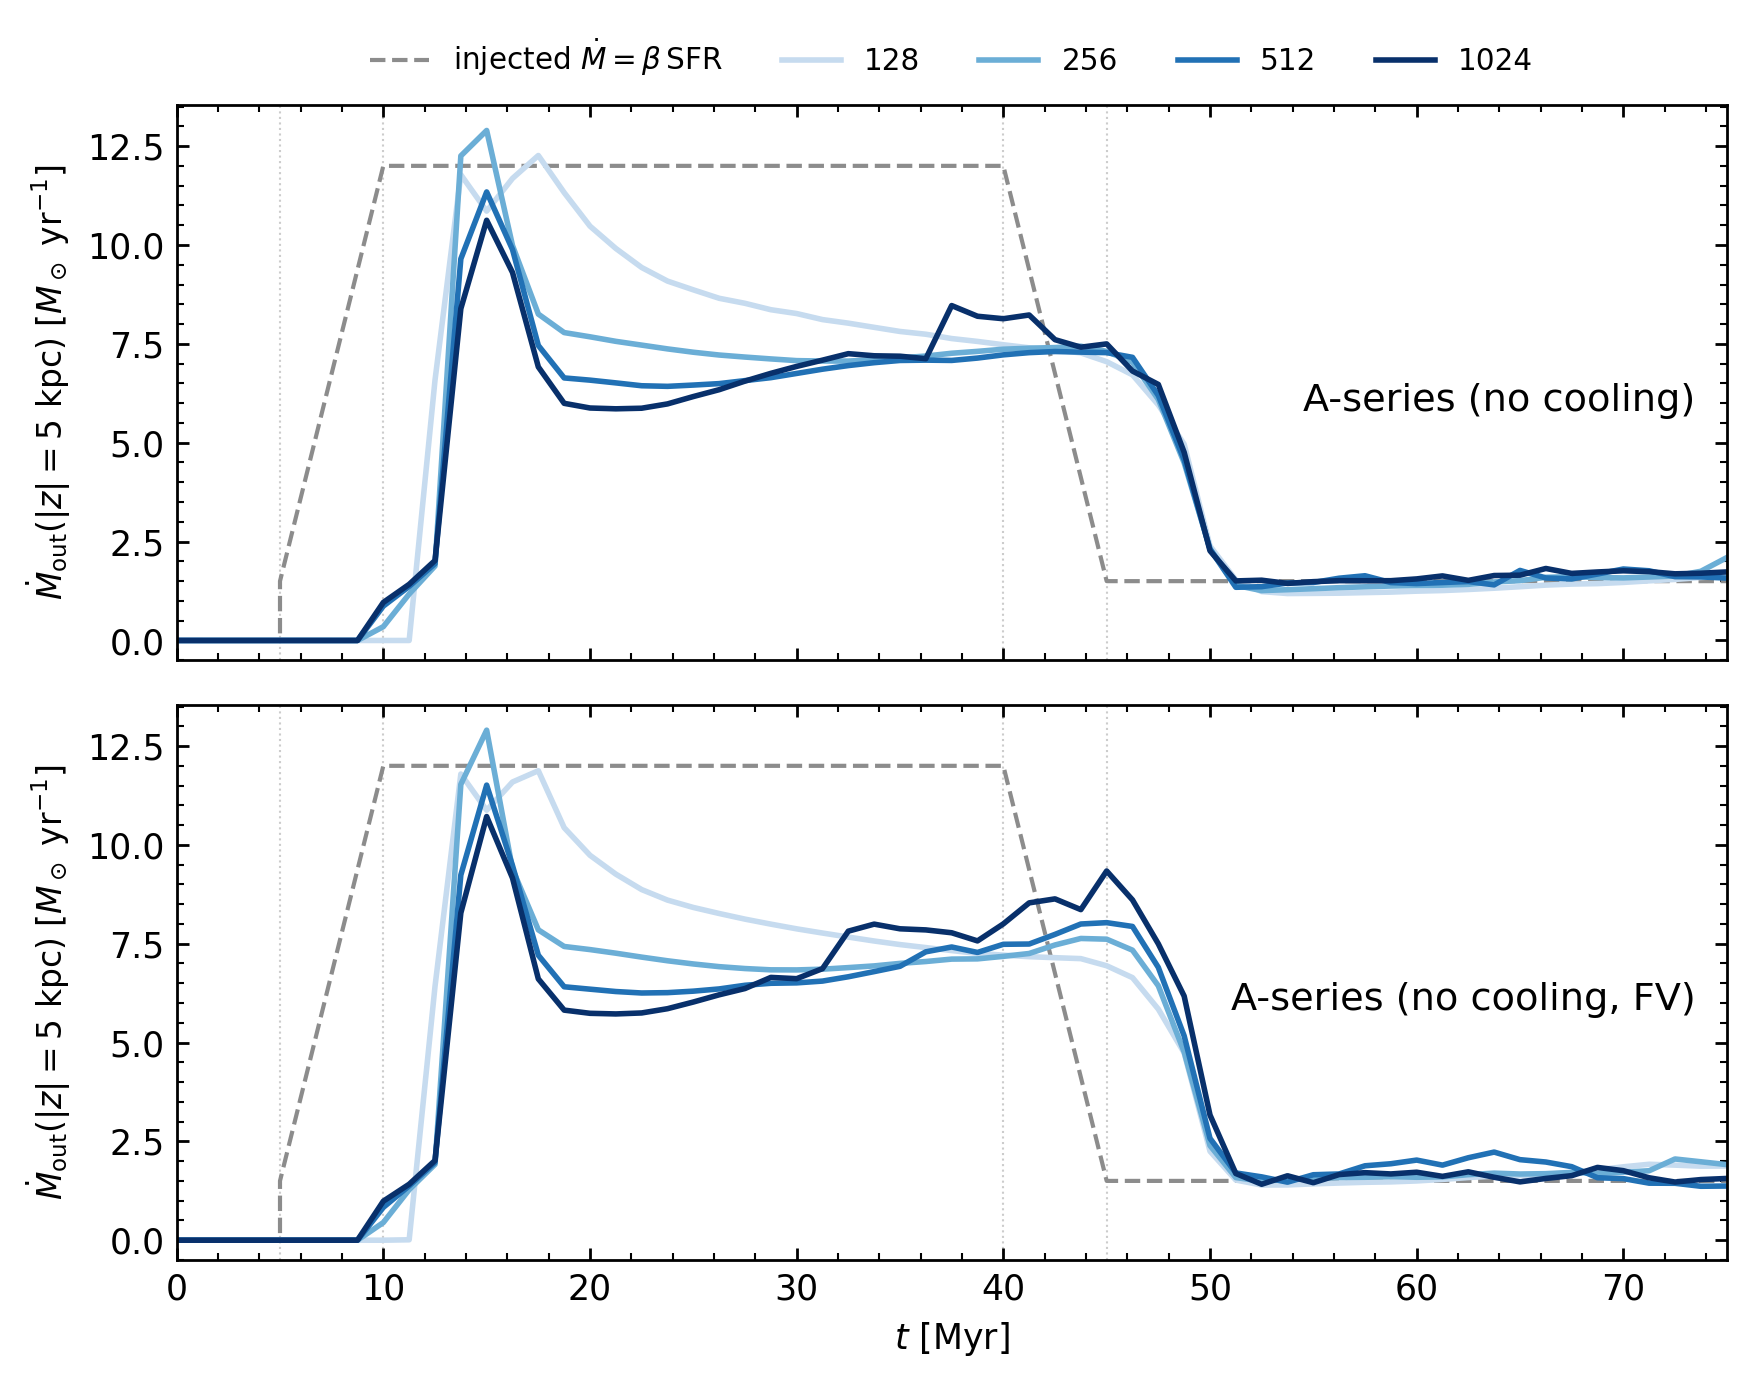
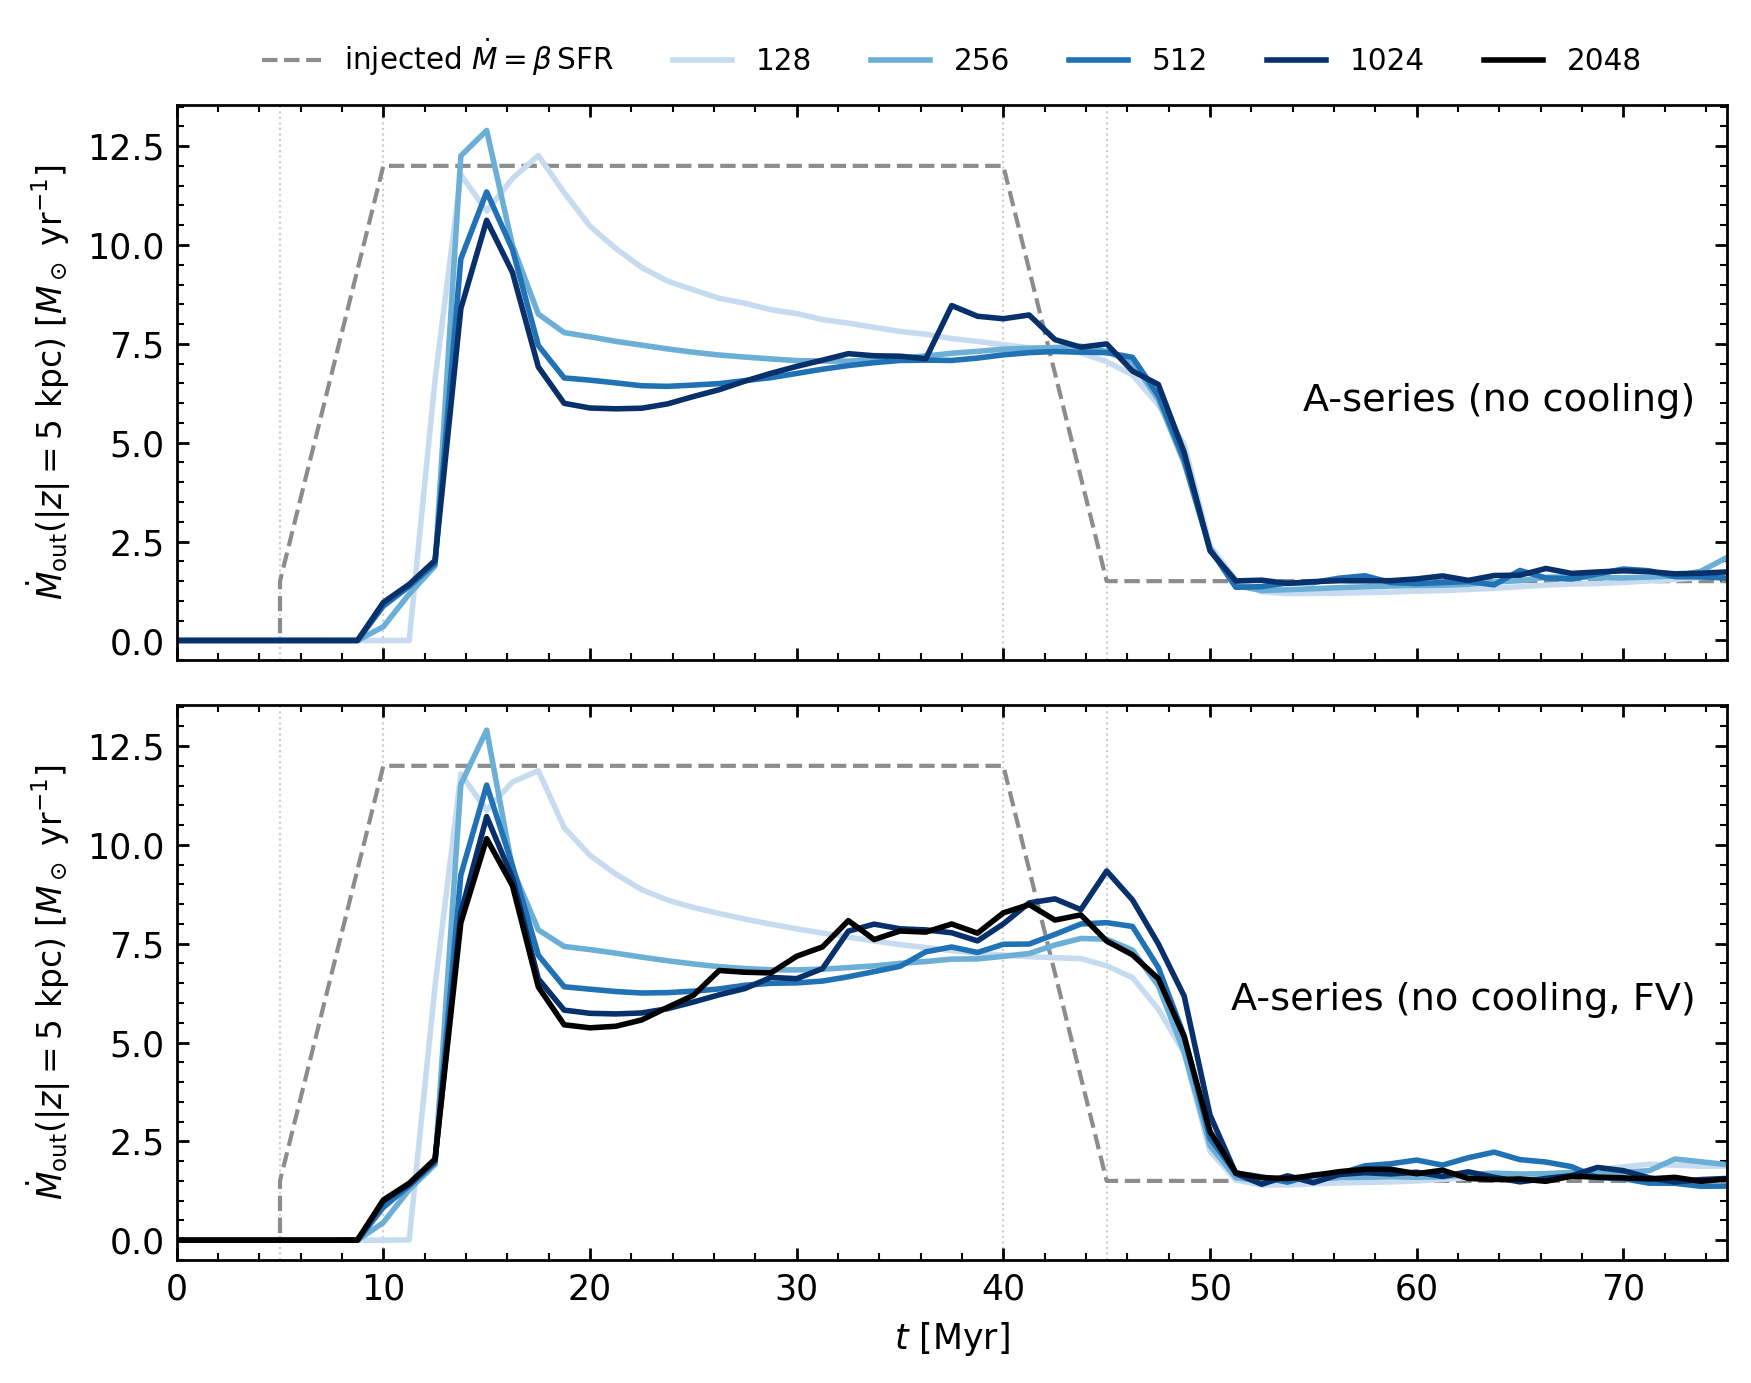
cgols: FV-2048 (VL2 + HLLC) analysed; FV ladder 128-2048 in the FV/FD synthesis
HoreKa job 112293 (32 H200, split (1,8,4,1), code 2ce69fa): clean to 75 Myr,
68952 steps, time_integration 39423 s (10.95 h) = 350 GPU-h (0.57 s/step).
Frames-based only: no 3D cache at 2048 yet, so its 3D metrics are absent.

Late soft X-ray (L_X1, 60-75 Myr, 1e39 erg/s): FV 512/1024/2048 =
4.45/4.52/5.23 (+16% at 2048, 1.3 sigma with the extrapolated 8% sigma_traj),
FD 512/1024 = 13.6/8.39 (FD Richardson 5.8 [2.8, 7.6]). The FV 512-1024
plateau was not convergence: FV rises at 2048 toward the FD limit; FD
(from above) and FV (from below) now bracket ~5-6. FD-1024 - FV-2048 = 3.9
sigma. The old FV 256-1024 Richardson value 4.24 [3.89, 4.56] is ruled out.

Rim episode of FV-1024 is gone at 2048: high-state L_X1 (15-40 Myr) 169 (FV-1024
178, FD-1024 159); outflow |z|=5 kpc 40-50 Myr 6.93 (7.59, 6.58). Outflow
15-40 / 50-75 / peak = 7.13 / 1.67 / 10.16 Msun/yr (FD-1024 7.13 / 1.65 /
10.62). Small-scale variance 80-300 pc 0.042 = FD-1024 (0.040). min_rho sits
on the FV floor (1e-4) from 52.2 Myr to the end, as at 1024 (51.8 Myr).

- cgols_fvfd_synthesis.py: RUNS["FV2048"], RES to 2048 (FD-FV rows stop at
  1024), FV 512-1024-2048 Richardson ladder (rich_FV_2048; the convergence
  figure's M_inf band uses the finest ladder), cost figure only where a cost
  exists, re-measure a cached run when its emission / 3D cache appears
- cgols_outflow_rates.py: FV-2048 in the AF ladder (2048 for the F series
  only), legend merged over the panels
[…]

diff --git a/pytests/self_gravity/cgols/cgols_fvfd_synthesis.py b/pytests/self_gravity/cgols/cgols_fvfd_synthesis.py
@@ -54,6 +54,12 @@ ablations (HLLE, fp64, CFL 0.3, PPM) are listed as offsets from their FV baselin
     # figures/cgols/comparisons/fv_ppm_A256_A512.png (the other figures are unchanged)
     python cgols_fvfd_synthesis.py --ppm-gpu [--ppm ... as above]
 
+    # 2026-11-03: + FV-2048 (RUNS["FV2048"], frames + emission cache from cgols_emission.py --tag _A2048fv --source
+    # frames; no 3D cache yet, so its 3D metrics are absent). RES runs to 2048 (FD-FV rows stop at 1024); the
+    # self-convergence table adds the FV 512 -> 1024 -> 2048 ladder (the convergence figure's M_inf band uses the
+    # finest ladder per scheme). A run is re-measured when its frame count changes or its emission / 3D cache
+    # appears; the other cached runs are reused.
+
 Writes figures/cgols/comparisons/fvfd_summary_significance.png, fvfd_convergence.png and fvfd_cost.png and prints
 the markdown tables. CPU only, numpy + scipy + matplotlib (no jax).
 """
@@ -85,7 +91,7 @@ CACHE = "data/studies/fvfd_synthesis_metrics.json"
 FIG_DIR = "figures/cgols/comparisons"
 BOX_Z = 20.0
 MYR_PER_CODE_TIME = 9.777922216807893
-RES = (128, 256, 512, 1024)
+RES = (128, 256, 512, 1024, 2048)  # FD to 1024; FV to 2048 (FD-FV differences exist where both do)
 HEIGHTS_KPC = np.array([0.5, 1.0, 2.0, 3.0, 4.0, 5.0, 6.0, 8.0])  # = cgols_convergence_3d.HEIGHTS_KPC
 RNG = np.random.default_rng(1)
 
@@ -132,6 +138,9 @@ RUNS = {
                   f"{LOGS}/diagnostics/cgols_diag_A512fvhlle.log"),
     "FD1024": ("FD", 1024, "base", "cgols_snapshots_A1024", "_A1024", "_A1024", f"{LOGS}/cgols_diag_A1024.log"),
     "FV1024": ("FV", 1024, "base", "cgols_snapshots_A1024fv", "_A1024fv", "_A1024fv", f"{LOGS}/cgols_diag_A1024fv.log"),
+    # HoreKa job 112293 (32 H200, split (1, 8, 4, 1), code 2ce69fa): frames + emission only; no 3D cache yet (the
+    # 3D metrics are absent, not zero, until data/studies/convergence3d_v3_A2048fv.npz exists)
+    "FV2048": ("FV", 2048, "base", "cgols_snapshots_A2048fv", "_A2048fv", "_A2048fv", f"{LOGS}/cgols_diag_A2048fv.log"),
 }
 
 #: Solver GPU-hours (H200) to 75 Myr from the console logs (time_integration wall x GPUs); 128/256 from the
@@ -142,6 +151,7 @@ GPU_HOURS = {
     ("FD", 256): 1154.8 / 3600, ("FV", 256): 198.6 / 3600,
     ("FD", 512): 20898.4 / 3600, ("FV", 512): 3571.9 / 3600,
     ("FD", 1024): 3.13 * 42341 * 4 / 3600, ("FV", 1024): 17449.4 * 4 / 3600,
+    ("FV", 2048): 39422.9 * 32 / 3600,  # 68952 steps, 32 H200, one leg (job 112293)
 }
 GPU_HOURS_FD1024_TOTAL = 246.0
 
@@ -435,7 +445,14 @@ def measure(label, spec):
         m.update(a)
         se.update(b)
     clean = lambda d: {k: (None if v is None or not np.isfinite(v) else float(v)) for k, v in d.items()}
-    return {"m": clean(m), "se": clean(se), "series": series, "nframes": len(series["t"])}
+    return {"m": clean(m), "se": clean(se), "series": series, "nframes": len(series["t"]), "sources": sources(spec)}
+
+
+def sources(spec):
+    """Which optional inputs (emission cache, 3D cache) of a run exist: a change triggers a re-measure."""
+    _scheme, _n, _role, _frames, emis, tag3d, _diag = spec
+    return [bool(emis and os.path.exists(f"data/studies/emission{emis}.npz")),
+            bool(tag3d and os.path.exists(f"data/studies/convergence3d_v3{tag3d}.npz"))]
 
 
 def load_all(recompute, extra):
@@ -451,7 +468,9 @@ def load_all(recompute, extra):
             continue
         nframes = len([f for f in os.listdir(spec[3]) if f.startswith("frame_")])
         if label in cache and cache[label]["nframes"] == nframes:
-            continue
+            # entries written before the "sources" field: taken as measured with the inputs present now
+            if cache[label].setdefault("sources", sources(spec)) == sources(spec):
+                continue
         print(f"  measuring {label} ({spec[3]}, {nframes} frames)", flush=True)
         cache[label] = measure(label, spec)
     with open(CACHE, "w") as fh:
@@ -505,7 +524,7 @@ def stats(runs, data):
                 c["sig_traj"], c["extrap"] = (max(below) * norm(c) if below else None), True
             c["sig_traj_pess"] = c["sig_traj"]
             fv = {m: cc["sig_meas"] / norm(cc) for (s, m), cc in cell.items() if s == "FV" and cc["sig_meas"]}
-            if n == 1024 and c["extrap"] and 256 in fv and 512 in fv and c["sig_traj"] is not None:
+            if n >= 1024 and c["extrap"] and 256 in fv and 512 in fv and c["sig_traj"] is not None:
                 c["sig_traj_pess"] = max(c["sig_traj"], fv[512] * max(1.0, fv[512] / fv[256]) * norm(c))
         for c in cell.values():
             if key in EARLY:
@@ -695,20 +714,21 @@ def tables(st, runs, data):
         print(line)
         summary[key] = {"rows": {str(n): r for n, r in rows.items()}, "trend": [b, berr, note]}
 
-    print("\n## Self-convergence per scheme (256 -> 512 -> 1024): d1, d2, order p, Richardson M_inf; "
-          "MC: fraction monotone, p and M_inf 16/50/84%\n")
-    print("| metric | scheme | 256 / 512 / 1024 | d1 | d2 | p | M_inf | MC mono | MC p | MC M_inf |")
-    print("|---|---|---|---|---|---|---|---|---|---|")
+    print("\n## Self-convergence per scheme (N/4 -> N/2 -> N; FD and FV 256 -> 1024, FV also 512 -> 2048): d1, d2, "
+          "order p, Richardson M_inf; MC: fraction monotone, p and M_inf 16/50/84%\n")
+    print("| metric | scheme | ladder | values | d1 | d2 | p | M_inf | MC mono | MC p | MC M_inf |")
+    print("|---|---|---|---|---|---|---|---|---|---|---|")
     for key, (label, _, _) in METRICS.items():
-        for scheme in ("FD", "FV"):
-            r = richardson(st[key], scheme)
+        for scheme, ladder in RICH_LADDERS:
+            r = richardson(st[key], scheme, ns=ladder)
             if r is None:
                 continue
             q = lambda name, r=r: "/".join(fmt(x) for x in r[name]) if name in r else "-"
-            print(f"| {label} | {scheme} | {' / '.join(fmt(x) for x in r['values'])} | {fmt(r['d1'])} | "
-                  f"{fmt(r['d2'])} | {fmt(r.get('p'), 2)} | {fmt(r.get('minf'))} | {r['frac_mono']:.2f} | "
-                  f"{q('p_q')} | {q('minf_q')} |")
-            summary[key][f"rich_{scheme}"] = r
+            print(f"| {label} | {scheme} | {'-'.join(map(str, ladder))} | {' / '.join(fmt(x) for x in r['values'])} | "
+                  f"{fmt(r['d1'])} | {fmt(r['d2'])} | {fmt(r.get('p'), 2)} | {fmt(r.get('minf'))} | "
+                  f"{r['frac_mono']:.2f} | {q('p_q')} | {q('minf_q')} |")
+            # the 256-1024 ladders keep their historical keys; the FV 512-2048 one is rich_FV_2048
+            summary[key][f"rich_{scheme}" + ("" if ladder[-1] == 1024 else f"_{ladder[-1]}")] = r
 
     print("\n## Equivalent resolution k: FV(N) = FD(k N)  (16-84%)\n")
     print("| metric | " + " | ".join(f"k @ FV-{n}" for n in RES) + " |")
@@ -786,6 +806,18 @@ def tables(st, runs, data):
     return summary
 
 
+#: (scheme, N ladder) of the self-convergence table; the finest available one feeds the figure's M_inf band
+RICH_LADDERS = (("FD", (256, 512, 1024)), ("FV", (256, 512, 1024)), ("FV", (512, 1024, 2048)))
+
+
+def finest_richardson(cell, scheme):
+    """richardson() over the finest of RICH_LADDERS this scheme has, or None."""
+    for sch, ladder in reversed(RICH_LADDERS):
+        if sch == scheme and all((scheme, n) in cell for n in ladder):
+            return richardson(cell, scheme, ns=ladder)
+    return None
+
+
 ATTR_KEYS = ("out5_15_40", "out5_40_50", "out5_50_75", "out5_peak", "lx1_15_40", "lx1_60_75", "ha_60_75",
              "pinch_60_75", "asym_50_75", "ssv128", "ssv256", "cc85_dv", "side_loss", "mass_75")
 
@@ -837,17 +869,19 @@ def fig_significance(st):
     from matplotlib.colors import SymLogNorm, TwoSlopeNorm
 
     keys = [k for k in HEAT_KEYS if differences(st[k])]
-    z = np.full((len(keys), len(RES)), np.nan)
+    pair_res = [n for n in RES if any(n in differences(st[k]) for k in keys)]  # (a): N with both schemes
+    z = np.full((len(keys), len(pair_res)), np.nan)
     kk = np.full((len(keys), len(RES)), np.nan)
     fig, (ax, ax_k) = plt.subplots(1, 2, figsize=(17, 0.42 * len(keys) + 2.6), gridspec_kw={"width_ratios": (1.5, 1)})
     for i, key in enumerate(keys):
         rows = differences(st[key])
         for j, n in enumerate(RES):
             if n in rows:
+                j_a = pair_res.index(n)
                 r = rows[n]
-                z[i, j] = np.clip(r["z"], -1e3, 1e3)
+                z[i, j_a] = np.clip(r["z"], -1e3, 1e3)
                 rel = f"{100 * r['rel']:+.0f}%" if METRICS[key][1] == "rel" else f"{r['delta']:+.2g}"
-                ax.text(j, i, f"{rel}  R {fmt(r['R'], 2)} {verdict(r)}", ha="center", va="center", fontsize=7.5,
+                ax.text(j_a, i, f"{rel}  R {fmt(r['R'], 2)} {verdict(r)}", ha="center", va="center", fontsize=7.5,
                         color="k" if abs(r["z"]) < 30 else "w")
             k, q, note = k_factor(st[key], n, key=key)
             txt = ""
@@ -870,8 +904,8 @@ def fig_significance(st):
     cbk = fig.colorbar(imk, ax=ax_k, fraction=0.05, pad=0.01)
     cbk.set_label("log2 k   (FV(N) = FD(k N); k > 1: FV acts like a finer FD grid)")
     labels = [METRICS[k][0] + ("" if k in EARLY else "  [late]") for k in keys]
-    for a_ in (ax, ax_k):
-        a_.set_xticks(range(len(RES)), [str(n) for n in RES])
+    for a_, ns in ((ax, pair_res), (ax_k, RES)):
+        a_.set_xticks(range(len(ns)), [str(n) for n in ns])
         a_.set_xlabel("N")
     ax.set_yticks(range(len(keys)), labels, fontsize=8)
     ax_k.set_yticks(range(len(keys)), [""] * len(keys))
@@ -880,7 +914,8 @@ def fig_significance(st):
                  fontsize=10)
     ax_k.set_title("(b) equivalent resolution k (16-84% over sigma);\nblank: no FV run or FD ladder not monotone there",
                    fontsize=10)
-    fig.suptitle("CGOLS model A, FD (WENO5-Z) vs FV (VL2 + PLM + HLLC): every metric, 128-1024", fontsize=12)
+    fig.suptitle("CGOLS model A, FD (WENO5-Z) vs FV (VL2 + PLM + HLLC): every metric, 128-1024 (FV-2048: k only)",
+                 fontsize=12)
     fig.tight_layout()
     path = f"{FIG_DIR}/fvfd_summary_significance.png"
     fig.savefig(path, dpi=110)
@@ -909,7 +944,7 @@ def fig_convergence(st, runs, data):
                 if len(mem) > 1:
                     ax.plot(np.full(len(mem), n * off * (0.95 if scheme == "FD" else 1.05)), mem, ls="none",
                             marker="_", color=color, alpha=0.6, ms=6)
-            r = richardson(cell, scheme)
+            r = finest_richardson(cell, scheme)
             if r and "minf_q" in r and r["frac_mono"] > 0.5:
                 lo, _mid, hi = r["minf_q"]
                 ax.axhspan(lo, hi, xmin=0.9, xmax=1.0, color=color, alpha=0.25)
@@ -922,7 +957,7 @@ def fig_convergence(st, runs, data):
         ax.set_xscale("log")
         ax.minorticks_off()
         ax.set_xticks(RES, [str(n) for n in RES])
-        ax.set_xlim(100, 1500)
+        ax.set_xlim(100, 2900)
         if key in ("lx1_60_75", "lx1_15_40", "ssv256", "ssv128"):
             ax.set_yscale("log")
         ax.set_title(METRICS[key][0], fontsize=9.5)
@@ -933,8 +968,9 @@ def fig_convergence(st, runs, data):
             handles.setdefault(l, h)
     fig.legend(handles.values(), handles.keys(), loc="lower center", ncol=8, fontsize=8.5, frameon=False,
                bbox_to_anchor=(0.5, 0.0))
-    fig.suptitle("Self-convergence of FD and FV (error bars: conservative sigma; dashes: realisations; "
-                 "right-edge band: Richardson M_inf 16-84% if monotone; offset markers: ablations)", fontsize=11)
+    fig.suptitle("Self-convergence of FD (128-1024) and FV (128-2048) (error bars: conservative sigma; dashes: "
+                 "realisations;\nright-edge band: Richardson M_inf 16-84% of the finest 3-run ladder if monotone; "
+                 "offset markers: ablations)", fontsize=11)
     fig.tight_layout(rect=(0, 0.04, 1, 0.97))
     path = f"{FIG_DIR}/fvfd_convergence.png"
     fig.savefig(path, dpi=100)
@@ -951,7 +987,7 @@ def fig_cost(st):
     for i, key in enumerate(COST_KEYS):
         cell = st[key]
         for scheme, ls in (("FD", "-"), ("FV", "--")):
-            ns = [n for n in RES if (scheme, n) in cell]
+            ns = [n for n in RES if (scheme, n) in cell and (scheme, n) in GPU_HOURS]
             pts = []
             for a, b in itertools.pairwise(ns):
                 va, vb = cell[(scheme, a)]["value"], cell[(scheme, b)]["value"]
@@ -966,14 +1002,17 @@ def fig_cost(st):
     ax.legend(fontsize=7.5, ncol=2, loc="upper center", bbox_to_anchor=(0.5, -0.14), frameon=False)
     ax = axes[1]
     for scheme, color in (("FD", "C0"), ("FV", "C3")):
-        ax.loglog(RES, [GPU_HOURS[(scheme, n)] for n in RES], marker="o", color=color, label=scheme)
+        ns = [n for n in RES if (scheme, n) in GPU_HOURS]
+        ax.loglog(ns, [GPU_HOURS[(scheme, n)] for n in ns], marker="o", color=color, label=scheme)
     ax.loglog([1024], [GPU_HOURS_FD1024_TOTAL], marker="o", mfc="none", color="C0", ls="none",
               label="FD-1024 incl. 3-leg restarts/I/O")
     for n in RES:
+        if ("FD", n) not in GPU_HOURS or ("FV", n) not in GPU_HOURS:
+            continue
         ratio = GPU_HOURS[("FD", n)] / GPU_HOURS[("FV", n)]
         ax.text(n, GPU_HOURS[("FV", n)] * 0.55, f"x{ratio:.1f}", ha="center", fontsize=9, color="0.3")
     ax.set(xlabel="N", ylabel="GPU-hours to 75 Myr", title="Run cost (FD / FV ratio under the FV points)",
-           ylim=(3e-3, 600))
+           ylim=(3e-3, 1000))
     ax.minorticks_off()
     ax.set_xticks(RES, [str(n) for n in RES])
     ax.grid(alpha=0.3, which="both")

diff --git a/pytests/self_gravity/cgols/cgols_outflow_rates.py b/pytests/self_gravity/cgols/cgols_outflow_rates.py
@@ -21,13 +21,15 @@ SCRIPT_DIR = os.path.dirname(os.path.abspath(__file__))
 FIG_DIR = os.path.join(SCRIPT_DIR, "figures", "cgols", "comparisons")
 Z_CUT = float(os.environ.get("CGOLS_OUTFLOW_ZCUT", "5"))  # kpc
 BOX_Z = 20.0  # kpc
-RESOLUTIONS = (128, 256, 512, 1024)
-COLORS = {128: "#c6dbef", 256: "#6baed6", 512: "#2171b5", 1024: "#08306b"}
+RESOLUTIONS = (128, 256, 512, 1024, 2048)
+COLORS = {128: "#c6dbef", 256: "#6baed6", 512: "#2171b5", 1024: "#08306b", 2048: "#000000"}
 SERIES = (("A", "no cooling"), ("B", "with cooling"), ("F", "no cooling, FV"))
 SERIES_SEL = os.environ.get("CGOLS_OUTFLOW_SERIES", "AB")  # e.g. "A" for one panel
 # Frame directory (below cgols_snapshots_) of each run; "F" = the A-series FV
 # (VL2 + HLLC) ladder of the *_fv comparison figures.
-FV_RUNS = {128: "diagnostics/A128fv", 256: "diagnostics/A256fv", 512: "A512fvf32", 1024: "A1024fv"}
+FV_RUNS = {128: "diagnostics/A128fv", 256: "diagnostics/A256fv", 512: "A512fvf32", 1024: "A1024fv", 2048: "A2048fv"}
+# Resolutions per series: 2048 exists for the FV ladder only so far.
+SERIES_RESOLUTIONS = {"F": RESOLUTIONS}
 
 
 def run_name(series, res):
@@ -64,7 +66,7 @@ def main():
     for ax, (series, label) in zip(axes, series_list):
         ax.plot(SCHEDULE_T, SCHEDULE_MDOT, color="0.55", lw=1.2, ls="--",
                 label=r"injected $\dot M = \beta\,$SFR")
-        for res in RESOLUTIONS:
+        for res in SERIES_RESOLUTIONS.get(series, (128, 256, 512, 1024)):
             data = outflow_rate(run_name(series, res))
             if data is not None:
                 ax.plot(*data, color=COLORS[res], lw=1.6, label=f"{res}")
@@ -81,11 +83,16 @@ def main():
             ax.axvline(t, color="0.8", lw=0.6, ls=":", zorder=0)
     # The first panel carries every resolution; one column fits the empty
     # low-state corner of a single panel, a row fits the two-panel layout.
-    handles = axes[0].get_legend_handles_labels()
+    # (merged over the panels: the FV panel can carry a resolution the others lack)
+    merged = {}
+    for ax in axes:
+        for handle, label in zip(*ax.get_legend_handles_labels()):
+            merged.setdefault(label, handle)
+    handles = (list(merged.values()), list(merged.keys()))
     if "F" in SERIES_SEL and len(series_list) > 1:
         # the FV panel has no empty corner (its 40-50 Myr bump): legend on top
         axes[0].legend(*handles, loc="lower center", bbox_to_anchor=(0.5, 1.0), fontsize=8.5,
-                       ncol=5, frameon=False)
+                       ncol=6, frameon=False)
     elif len(series_list) > 1:
         axes[-1].legend(*handles, loc="upper right", fontsize=8.5, ncol=5, framealpha=1,
                         edgecolor="none", title="resolution", title_fontsize=8.5)
